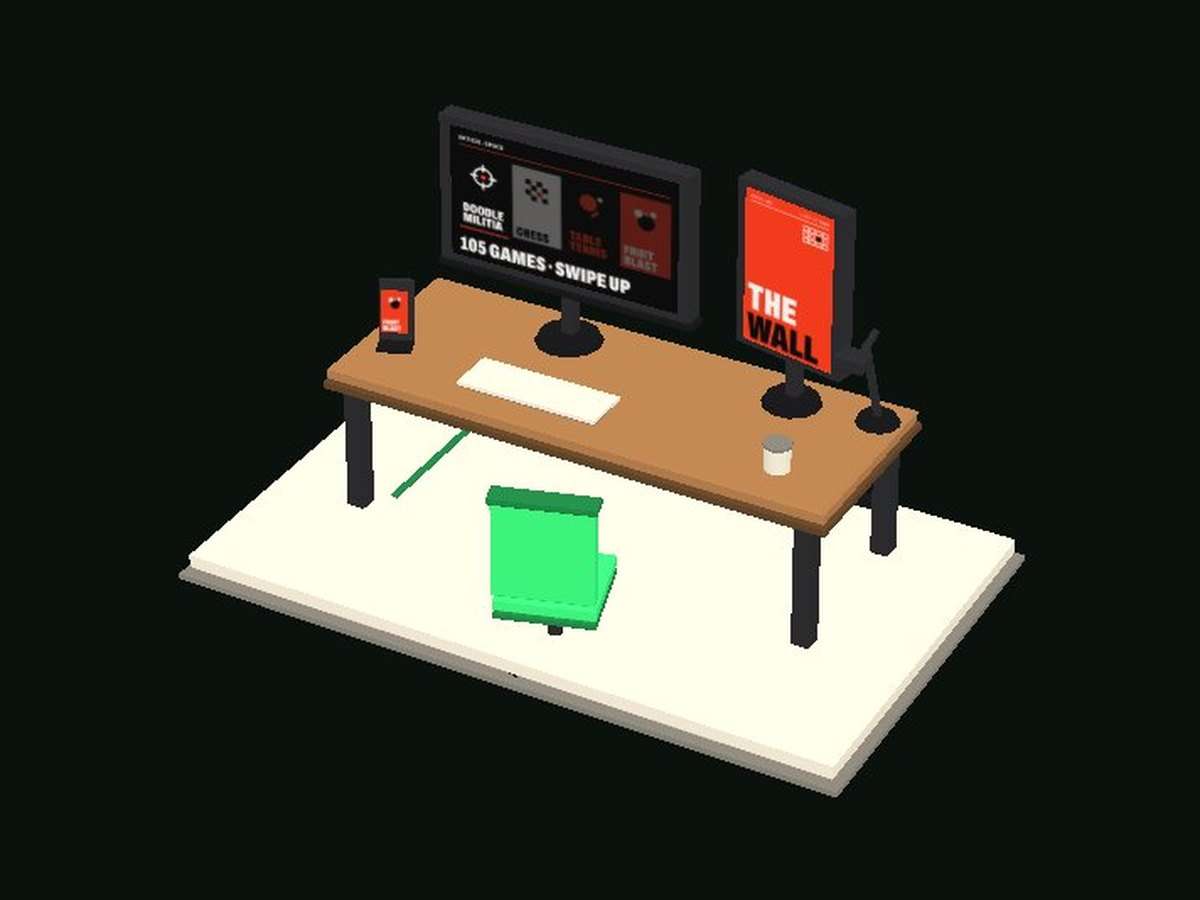
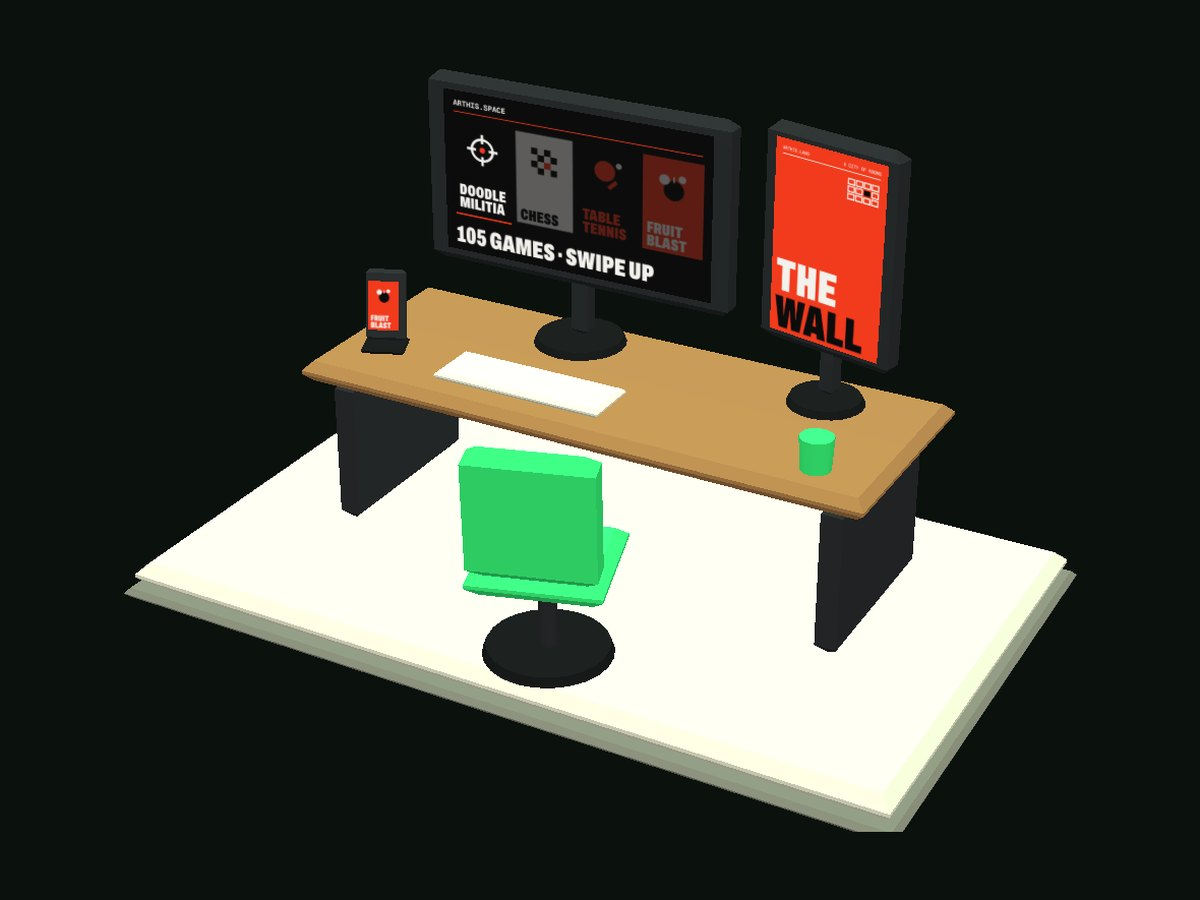
All sets in the clean rounded style; a diorama view on phones
- ARTHIS: one rounded desk on panel legs, rounded monitors, a soft green
  chair on a pedestal; desk lamp and floor cable removed
- Blender: smooth turntable, a soft mannequin with ball joints and visor,
  rounded softbox, the shared tripod camera
- HexaBed, Inference, Board and Trophies: rounder plinths, racks, frame
  and bars; floor cables, stool and crate removed; wall word TROPHIES
- Phones: the camera stands high in each room and steps back just far
  enough for the whole set to fit, with a wider lens; wall words and
  pendant lamps are hidden there so the set reads clearly
- Product shots re-rendered

Claude-Session: https://claude.ai/code/session_01DM9MDgNKx7H6ECd662b5ve

Changed region(s): [[0.0925, 0.0622, 0.8942, 0.9333]]

diff --git a/app.js b/app.js
@@ -546,6 +546,7 @@ function faceMat(s, w, h){
 
 const anim = [];
 let ceilMats = [], keyLight = null;
+const PENDANTS = [];
 
 /* a wall along one axis, with door gaps; each face takes its own room's colour */
 function wall(axis, at, a0, a1, gaps){
@@ -613,10 +614,10 @@ function buildShell(){
   const shadeM = mat(C.black, { transparent: true }), bulbM = flat(0xFFF7E8, { transparent: true });
   ceilMats.push(shadeM, bulbM);
   [{ cx: 0, cz: -HALL_D / 2 }].concat(ROOMS).forEach(rm => {
-    const cord = new THREE.Mesh(boxGeo(.02, 1.4, .02), shadeM); cord.position.set(rm.cx, RH - .7, rm.cz); world.add(cord);
+    const cord = new THREE.Mesh(boxGeo(.02, 1.4, .02), shadeM); cord.position.set(rm.cx, RH - .7, rm.cz); world.add(cord); PENDANTS.push(cord);
     const sh = new THREE.Mesh(new THREE.LatheGeometry([[0, .32], [.34, .3], [.42, 0], [.4, 0]].map(p => new THREE.Vector2(p[0], p[1])), 32), shadeM);
-    sh.position.set(rm.cx, RH - 1.72, rm.cz); world.add(sh);
-    const b = new THREE.Mesh(new THREE.SphereGeometry(.1, 16, 10), bulbM); b.position.set(rm.cx, RH - 1.72, rm.cz); world.add(b);
+    sh.position.set(rm.cx, RH - 1.72, rm.cz); world.add(sh); PENDANTS.push(sh);
+    const b = new THREE.Mesh(new THREE.SphereGeometry(.1, 16, 10), bulbM); b.position.set(rm.cx, RH - 1.72, rm.cz); world.add(b); PENDANTS.push(b);
   });
 
   /* the hall: the name of the building on its back wall */
@@ -662,14 +663,14 @@ const O8 = (par, rt, rb, h, m, x, y, z, o) => CYL(par, rt, rb, h, (o && o.seg) |
 /* every piece stands on its own base: a slab with a darker rim, like a diorama island */
 function base(g, w, d, fam, round){
   fam = fam || 'cream';
-  if (round){ O8(g, w + .06, w + .1, .06, fm(fam, 't'), 0, 0, 0, { seg: 10 }); O8(g, w, w, .14, fm(fam), 0, .06, 0, { seg: 10 }); }
-  else { K(g, w + .1, .06, d + .1, fm(fam, 't'), 0, 0, 0); K(g, w, .14, d, fm(fam), 0, .06, 0); }
+  if (round){ O8(g, w + .06, w + .1, .06, fm(fam, 't'), 0, 0, 0, { seg: 32 }); O8(g, w, w, .14, fm(fam), 0, .06, 0, { seg: 32 }); }
+  else { K(g, w + .1, .06, d + .1, fm(fam, 't'), 0, 0, 0, { r: .03 }); K(g, w, .14, d, fm(fam), 0, .06, 0, { r: .06 }); }
   return .2;
 }
 
 /* the room's name, painted across its far wall and cropped by it */
 const WORDS = [];
-const WALLWORD = ['ARTHIS', 'BLENDER', 'AKVERSE', 'HEXABED', 'INFERENCE', 'THE BOARD', '154', 'ARCADE', 'LET’S BUILD'];
+const WALLWORD = ['ARTHIS', 'BLENDER', 'AKVERSE', 'HEXABED', 'INFERENCE', 'THE BOARD', 'TROPHIES', 'ARCADE', 'LET’S BUILD'];
 function wallType(i){
   const rm = ROOMS[i], word = WALLWORD[i];
   const inner = i === 8 ? 13.5 : rm.w - WT - .04;
@@ -710,40 +711,32 @@ function drawFeed(){
   g.fillStyle = HEX.paper; posterFont(g, 60); g.fillText('105 GAMES · SWIPE UP', 24, 376);
   if (!feedTex) feedTex = texFrom(c); else { feedTex.image = c; feedTex.needsUpdate = true; }
 }
-function chair(par, x, z, ry, acc){
-  acc = acc || 'red';
-  const ch = new THREE.Group(); ch.position.set(x, 0, z); ch.rotation.y = ry || 0; par.add(ch);
-  K(ch, .62, .1, .6, fm(acc), 0, .5, 0); K(ch, .62, .05, .6, fm(acc, 't'), 0, .45, 0);
-  K(ch, .62, .66, .1, fm(acc), 0, .62, -.27); K(ch, .66, .06, .14, fm(acc, 't'), 0, 1.26, -.27);
-  O8(ch, .045, .045, .4, fm('ink'), 0, .05, 0);
-  for (let k = 0; k < 5; k++){ const a = k * Math.PI * 2 / 5; K(ch, .08, .06, .36, fm('ink', 't'), Math.sin(a) * .17, .02, Math.cos(a) * .17, { ry: a }); }
-}
 function buildArthis(i){
   const g = stand(i, 1.9), b = base(g, 4.4, 2.6);
-  K(g, 3.4, .1, 1.3, fm('wood'), 0, b + .92, -.2); K(g, 3.44, .07, 1.34, fm('wood', 't'), 0, b + .86, -.2);
-  [[-1.55, -.75], [1.55, -.75], [-1.55, .35], [1.55, .35]].forEach(p => K(g, .12, .86, .12, fm('ink'), p[0], b, p[1]));
-  K(g, 3.1, .08, .08, fm('ink', 't'), 0, b + .3, -.75);
+  /* one rounded desk on two panel legs */
+  K(g, 3.3, .12, 1.25, fm('wood'), 0, b + .86, -.2, { r: .05 });
+  [-1.45, 1.45].forEach(x => K(g, .12, .86, 1.05, fm('ink'), x, b, -.2, { r: .05 }));
+  K(g, 2.78, .36, .05, fm('ink', 't'), 0, b + .42, -.66, { r: .02 });
   drawFeed();
-  const top = b + 1.02;
-  const m1 = new THREE.Group(); m1.position.set(-.55, top, -.55); g.add(m1);
-  O8(m1, .2, .22, .04, fm('ink', 't'), 0, 0, 0); K(m1, .08, .36, .08, fm('ink'), 0, .04, -.02);
-  K(m1, 1.76, 1.06, .12, fm('ink'), 0, .36, 0); K(m1, 1.8, .06, .14, fm('ink', 't'), 0, .33, 0);
-  plane(m1, 1.6, .9, decal(feedTex), 0, .89, .065);
-  const m2 = new THREE.Group(); m2.position.set(1.0, top, -.55); m2.rotation.y = -.2; g.add(m2);
-  O8(m2, .17, .19, .04, fm('ink', 't'), 0, 0, 0); K(m2, .08, .3, .08, fm('ink'), 0, .04, -.02);
-  K(m2, .78, 1.16, .12, fm('ink'), 0, .3, 0);
-  plane(m2, .66, 1.04, decal(texFrom(posterCanvas('wall', 300))), 0, .88, .065);
-  K(g, .96, .04, .32, fm('cream'), -.4, top, .1); K(g, .96, .02, .32, fm('cream', 't'), -.4, top - .01, .1);
-  O8(g, .085, .08, .16, fm('cream'), 1.25, top, .15); O8(g, .09, .09, .02, fm('cream', 't'), 1.25, top + .16, .15);
-  const ph = new THREE.Group(); ph.position.set(-1.45, top, .05); ph.rotation.y = .4; g.add(ph);
-  K(ph, .22, .03, .16, fm('ink', 't'), 0, 0, 0); K(ph, .22, .4, .04, fm('ink'), 0, .03, -.04, { rx: -.2 });
+  const top = b + .98;
+  const m1 = new THREE.Group(); m1.position.set(-.45, top, -.55); g.add(m1);
+  O8(m1, .24, .26, .04, fm('ink', 't'), 0, 0, 0, { seg: 24 }); K(m1, .1, .4, .08, fm('ink'), 0, .04, -.03, { r: .03 });
+  K(m1, 1.84, 1.1, .1, fm('ink'), 0, .34, 0, { r: .06 });
+  plane(m1, 1.64, .93, decal(feedTex), 0, .89, .055);
+  const m2 = new THREE.Group(); m2.position.set(1.05, top, -.5); m2.rotation.y = -.22; g.add(m2);
+  O8(m2, .19, .21, .04, fm('ink', 't'), 0, 0, 0, { seg: 24 }); K(m2, .08, .3, .08, fm('ink'), 0, .04, -.03, { r: .03 });
+  K(m2, .8, 1.2, .1, fm('ink'), 0, .28, 0, { r: .06 });
+  plane(m2, .68, 1.06, decal(texFrom(posterCanvas('wall', 300))), 0, .88, .055);
+  K(g, 1.0, .05, .32, fm('cream'), -.4, top, .1, { r: .02 });
+  O8(g, .09, .08, .18, fm('green'), 1.3, top, .2, { seg: 16 });
+  const ph = new THREE.Group(); ph.position.set(-1.35, top, .05); ph.rotation.y = .4; g.add(ph);
+  K(ph, .24, .03, .18, fm('ink', 't'), 0, 0, 0, { r: .012 }); K(ph, .22, .4, .04, fm('ink'), 0, .03, -.04, { rx: -.2, r: .02 });
   plane(ph, .17, .275, decal(texFrom(gameTex('fruit'))), 0, .25, -.01).rotation.x = -.2;
-  chair(g, .2, .95, Math.PI + .3, 'green');
-  /* a desk lamp in the street-lamp language, and a cable run to the floor */
-  const dl = new THREE.Group(); dl.position.set(1.55, b + 1.02, -.6); g.add(dl);
-  O8(dl, .12, .14, .04, fm('ink', 't'), 0, 0, 0); K(dl, .04, .5, .04, fm('ink'), 0, .04, 0, { rz: .2 }); K(dl, .04, .04, .32, fm('ink'), -.05, .52, .1, { rx: .4 });
-  K(dl, .2, .12, .14, fm('ink'), -.05, .5, .28); plane(dl, .16, .1, flat(0xEFFFF4), -.05, .5, .35).rotation.x = Math.PI / 2;
-  K(g, .05, .05, 1.2, fm('green', 't'), -1.4, b, -.4, { r: .02 });
+  /* a soft green chair on one pedestal */
+  const ch = new THREE.Group(); ch.position.set(.2, b, .95); ch.rotation.y = Math.PI + .3; g.add(ch);
+  O8(ch, .32, .34, .05, fm('ink', 't'), 0, 0, 0, { seg: 24 }); O8(ch, .05, .05, .42, fm('ink'), 0, .05, 0, { seg: 12 });
+  K(ch, .7, .14, .66, fm('green'), 0, .46, 0, { r: .06 });
+  K(ch, .66, .74, .14, fm('green'), 0, .58, -.28, { r: .07, rx: -.08 });
   wallType(i);
   anim.push(t => { const k = Math.floor(t / 2.4); if (k !== feedIdx){ feedIdx = k; drawFeed(); } });
   return g;
@@ -752,28 +745,27 @@ function buildArthis(i){
 /* ── 1 · Blender: a chunky mannequin turning on a turntable ── */
 function buildBlender(i){
   const g = stand(i, 3.4), b = base(g, 1.75, 0, 'cream', true);
-  O8(g, 1.1, 1.18, .5, fm('ink'), 0, b, 0, { seg: 10 }); O8(g, 1.2, 1.2, .06, fm('ink', 't'), 0, b + .5, 0, { seg: 10 });
-  const plate = O8(g, 1.04, 1.04, .06, fm('red'), 0, b + .56, 0, { seg: 10 });
+  O8(g, 1.12, 1.18, .5, fm('ink'), 0, b, 0, { seg: 32 }); O8(g, 1.2, 1.2, .06, fm('ink', 't'), 0, b + .5, 0, { seg: 32 });
+  const plate = O8(g, 1.04, 1.04, .06, fm('red'), 0, b + .56, 0, { seg: 32 });
+  /* a soft mannequin: rounded blocks, ball joints, a visor */
   const fig = new THREE.Group(); fig.position.y = b + .62; g.add(fig);
   const W = fm('cream'), T = fm('cream', 't');
-  const limb = (x0, y0, x1, y1, r, z) => { const A = V3(x0, y0, z || 0), Bv = V3(x1, y1, z || 0), len = A.distanceTo(Bv);
-    const m = new THREE.Mesh(new THREE.CylinderGeometry(r, r * 1.1, len, 8), W); m.position.copy(A).add(Bv).multiplyScalar(.5);
-    m.quaternion.setFromUnitVectors(V3(0, 1, 0), Bv.clone().sub(A).normalize()); m.castShadow = true; fig.add(m);
-    const j = new THREE.Mesh(new THREE.CylinderGeometry(r * 1.3, r * 1.3, r * 1.2, 8), T); j.position.copy(Bv); j.quaternion.copy(m.quaternion); fig.add(j); };
-  K(fig, .5, .62, .3, W, 0, 1.0, 0); K(fig, .54, .08, .34, T, 0, 1.6, 0); K(fig, .44, .16, .28, T, 0, .92, 0);
-  K(fig, .4, .44, .38, W, 0, 1.7, 0, { r: .12 }); K(fig, .32, .11, .06, fm('ink'), 0, 1.88, .17, { r: .03 }); O8(fig, .04, .04, .05, fm('red'), .2, 2.04, 0); O8(fig, .07, .08, .1, T, 0, 1.64, 0);
-  limb(-.3, 1.52, -.55, 1.2, .07); limb(-.55, 1.2, -.45, .92, .06); limb(.3, 1.52, .58, 1.34, .07); limb(.58, 1.34, .74, 1.6, .06);
-  limb(-.13, .92, -.18, .48, .09); limb(-.18, .48, -.2, .04, .08); limb(.13, .92, .2, .5, .09); limb(.2, .5, .22, .04, .08);
-  /* a softbox and a camera on a tripod, both on the same base */
+  const ball = (p, r) => mesh(fig, new THREE.SphereGeometry(r, 12, 8), T, p.x, p.y, p.z);
+  const limb = (x0, y0, x1, y1, r) => { const A = V3(x0, y0, 0), Bv = V3(x1, y1, 0), len = A.distanceTo(Bv);
+    const m = new THREE.Mesh(new THREE.CylinderGeometry(r, r, len, 12), W); m.position.copy(A).add(Bv).multiplyScalar(.5);
+    m.quaternion.setFromUnitVectors(V3(0, 1, 0), Bv.clone().sub(A).normalize()); m.castShadow = true; fig.add(m); ball(Bv, r * 1.25); };
+  K(fig, .52, .64, .32, W, 0, .98, 0, { r: .12 }); K(fig, .42, .18, .28, T, 0, .86, 0, { r: .07 });
+  K(fig, .4, .42, .38, W, 0, 1.68, 0, { r: .14 }); K(fig, .32, .1, .06, fm('ink'), 0, 1.86, .17, { r: .03 });
+  O8(fig, .07, .08, .1, T, 0, 1.6, 0);
+  ball(V3(-.3, 1.52, 0), .09); ball(V3(.3, 1.52, 0), .09);
+  limb(-.3, 1.52, -.52, 1.22, .07); limb(-.52, 1.22, -.44, .94, .06); limb(.3, 1.52, .56, 1.34, .07); limb(.56, 1.34, .7, 1.6, .06);
+  limb(-.13, .9, -.17, .48, .085); limb(-.17, .48, -.19, .06, .075); limb(.13, .9, .19, .5, .085); limb(.19, .5, .21, .06, .075);
+  /* a rounded softbox and the camera on its tripod */
   const sb = new THREE.Group(); sb.position.set(-2.2, 0, .6); sb.rotation.y = .9; g.add(sb);
-  O8(sb, .18, .22, .05, fm('ink', 't'), 0, 0, 0); O8(sb, .035, .035, 2.2, fm('ink'), 0, .05, 0);
-  K(sb, 1.2, .9, .34, fm('ink'), 0, 1.95, 0); K(sb, 1.26, .07, .38, fm('ink', 't'), 0, 2.82, 0);
-  plane(sb, 1.06, .76, flat(0xFFF4DE), 0, 2.4, .175);
-  const cam = new THREE.Group(); cam.position.set(2.0, 0, 1.4); cam.rotation.y = -2.4 + Math.PI; g.add(cam);
-  [0, 2.1, 4.2].forEach(r => K(cam, .05, 1.42, .05, fm('ink'), Math.sin(r) * .3, 0, Math.cos(r) * .3, { rx: Math.cos(r) * -.2, rz: Math.sin(r) * .2 }));
-  K(cam, .62, .4, .38, fm('ink'), 0, 1.38, 0); K(cam, .66, .06, .42, fm('ink', 't'), 0, 1.36, 0);
-  const lens = O8(cam, .15, .17, .3, fm('ink', 't'), 0, 1.58, .32); lens.rotation.x = Math.PI / 2;
-  const rec = new THREE.Mesh(new THREE.CylinderGeometry(.04, .04, .02, 8), flat(C.red)); rec.position.set(.22, 1.79, 0); cam.add(rec);
+  O8(sb, .22, .24, .04, fm('ink', 't'), 0, 0, 0, { seg: 24 }); O8(sb, .035, .035, 2.0, fm('ink'), 0, .04, 0);
+  K(sb, 1.2, .9, .3, fm('ink'), 0, 1.95, 0, { r: .1 });
+  plane(sb, 1.0, .7, flat(0xFFF4DE), 0, 2.4, .16);
+  const rec = tripodCam(g, 2.0, 1.4, .75, 1.15);
   /* the timeline as an orbit: keyframe diamonds circling the turntable */
   const keys = new THREE.Group(); keys.position.y = b + 1.6; g.add(keys);
   for (let k = 0; k < 10; k++){
@@ -854,7 +846,7 @@ function buildAkverse(i){
 let hexRegen = null;
 function buildHexa(i){
   const g = stand(i, 3.4), b = base(g, 1.95, 0, 'cream', true);
-  O8(g, .5, .6, .7, fm('ink'), 0, b, 0, { seg: 10 }); O8(g, 1.7, 1.7, .08, fm('ink', 't'), 0, b + .7, 0, { seg: 10 });
+  O8(g, .5, .6, .7, fm('ink'), 0, b, 0, { seg: 32 }); O8(g, 1.7, 1.7, .08, fm('ink', 't'), 0, b + .7, 0, { seg: 48 });
   /* the projector: a glowing green ring on the table, the island floating above it */
   const ringM = new THREE.MeshBasicMaterial({ color: lin(FAM.green), transparent: true, opacity: .9 });
   const ring = new THREE.Mesh(new THREE.TorusGeometry(1.45, .025, 8, 72), ringM); ring.rotation.x = Math.PI / 2; ring.position.y = b + .8; g.add(ring);
@@ -909,11 +901,11 @@ function buildHexa(i){
 
 /* ── 4 · Inference: racks on a plinth, a network thinking above ── */
 function buildAI(i){
-  const g = stand(i, 1.1), b = base(g, 3.8, 1.4);
+  const g = stand(i, 1.1), b = base(g, 3.8, 1.4, 'ink');
   const ON = [flat(0xC9F5D6), flat(FAM.green)], OFF = fm('ink', 't');
   const leds = [];
   [-1.1, 0, 1.1].forEach(x => {
-    K(g, .96, 2.4, .86, fm('ink'), x, b, 0); K(g, 1.0, .08, .9, fm('ink', 't'), x, b + 2.4, 0); K(g, 1.0, .1, .9, fm('ink', 't'), x, b, 0);
+    K(g, .96, 2.44, .86, fm('ink'), x, b, 0, { r: .08 }); K(g, .8, .06, .02, flat(FAM.green), x, b + 2.3, .435, { noShadow: true, r: .01 });
     for (let r = 0; r < 10; r++){
       K(g, .78, .04, .02, fm('ink', 't'), x, b + .26 + r * .21, .44, { r: .005 });
       for (let c = 0; c < 3; c++){ const m = new THREE.Mesh(boxGeo(.05, .05, .02), OFF); m.position.set(x - .28 + c * .08, b + .36 + r * .21, .445); g.add(m); leds.push(m); }
@@ -930,7 +922,6 @@ function buildAI(i){
   net.add(new THREE.LineSegments(new THREE.BufferGeometry().setFromPoints(pts), new THREE.LineBasicMaterial({ color: lin(0x6E6B66) })));
   const pulses = edges.map(() => { const m = new THREE.Mesh(new THREE.SphereGeometry(.03, 6, 4), flat(FAM.green)); net.add(m); return m; });
   /* cable runs from the racks across the floor */
-  [-1.1, 0, 1.1].forEach((x, k) => K(g, .07, .04, 1.4 + k * .3, fm('green', 't'), x + .3, b, 1.1 + k * .15, { r: .015 }));
   wallType(i);
   let last = 0;
   anim.push(t => {
@@ -954,7 +945,7 @@ function cardCanvas(title, sub, dark){
 }
 function buildBoard(i){
   const w = frameOf(i);
-  K(w, 6.4, 3.4, .1, fm('wood', 't'), -.4, .9, .05); K(w, 6.1, 3.1, .06, fm('cream'), -.4, 1.05, .12);
+  K(w, 6.5, 3.5, .12, fm('ink'), -.4, .85, .06, { r: .12 }); K(w, 6.16, 3.16, .06, fm('cream'), -.4, 1.02, .14, { r: .08 });
   const items = [
     { tex: texFrom(posterCanvas('cv', 300)), w: .8, h: .8 * PHI, x: -2.9, y: 3.2 },
     { tex: texFrom(posterCanvas('tools', 300)), w: .8, h: .8 * PHI, x: -1.95, y: 3.25 },
@@ -975,14 +966,9 @@ function buildBoard(i){
   const order = [0, 5, 6, 1, 2, 7, 3, 8, 4, 0];
   const sp = []; for (let k = 0; k < order.length - 1; k++) sp.push(pins[order[k]], pins[order[k + 1]]);
   w.add(new THREE.LineSegments(new THREE.BufferGeometry().setFromPoints(sp), new THREE.LineBasicMaterial({ color: lin(C.red) })));
-  const g = stand(i, 1.8), b = base(g, 3.0, 1.4);
-  const st = new THREE.Group(); st.position.set(-.8, b, 0); g.add(st);
-  O8(st, .3, .3, .07, fm('wood'), 0, .62, 0); O8(st, .31, .31, .03, fm('wood', 't'), 0, .6, 0);
-  [0, 2.1, 4.2].forEach(r => K(st, .06, .62, .06, fm('wood', 't'), Math.sin(r) * .2, 0, Math.cos(r) * .2, { rx: Math.cos(r) * -.08, rz: Math.sin(r) * .08 }));
-  K(g, .9, .5, .6, fm('wood'), .7, b, 0); K(g, .94, .06, .64, fm('wood', 't'), .7, b + .5, 0);
-  [[.5, .1], [.75, -.05], [.95, .12]].forEach((q, k) => K(g, .3, .02, .22, fm(k === 1 ? 'red' : 'cream'), q[0], b + .56 + k * .02, q[1], { ry: k * .3, r: .004 }));
+  w.userData.dist = 1.2; w.userData.wall = true;
   wallType(i);
-  return g;
+  return w;
 }
 
 /* ── 6 · 154: the numbers as a chunky bar chart ── */
@@ -998,12 +984,12 @@ function buildNumbers(i){
   const BARS = [['154', 'Builds', 154, 'red'], ['43', 'Three.js', 43, 'ink'], ['28', 'Add-ons', 28, 'conc'], ['15', 'P2P games', 15, 'cream']];
   BARS.forEach((bar, k) => {
     const x = -1.65 + k * 1.1, h = .5 + Math.sqrt(bar[2] / 154) * 2.6;
-    K(g, .8, h, .8, fm(bar[3]), x, b, 0); K(g, .86, .08, .86, fm(bar[3], 't'), x, b + h, 0);
+    K(g, .8, h, .8, fm(bar[3]), x, b, 0, { r: .1 });
     plane(g, .7, .467, decal(plaqueCanvas(bar[0], bar[1], bar[3] === 'ink' || bar[3] === 'red')), x, b + .42, .41);
   });
   const extra = [['AIR 8956', 'JEE Adv.'], ['98.9', 'JEE Main %ile']];
   extra.forEach((e, k) => { const p = new THREE.Group(); p.position.set(2.0, b, .2 - k * .5); p.rotation.y = -.4; g.add(p);
-    K(p, .5, .5 + k * .2, .4, fm('cream'), 0, 0, 0); plane(p, .46, .3, decal(plaqueCanvas(e[0], e[1], false)), 0, .3 + k * .1, .21); });
+    K(p, .5, .5 + k * .2, .4, fm('cream'), 0, 0, 0, { r: .06 }); plane(p, .46, .3, decal(plaqueCanvas(e[0], e[1], false)), 0, .3 + k * .1, .21); });
   wallType(i);
   return g;
 }
@@ -1069,7 +1055,7 @@ function letterTex(){
   return texFrom(c);
 }
 function buildContact(i){
-  const f = frameOf(i), W = 4.8, Hh = 3.0, y0 = .7; f.userData.dist = 2.2;
+  const f = frameOf(i), W = 4.8, Hh = 3.0, y0 = .7; f.userData.dist = 2.2; f.userData.wall = true;
   /* the flap lies open against the wall, the body is a soft slab, the letter rises out between them */
   const tri = (pts, d) => { const s = new THREE.Shape(); s.moveTo(pts[0][0], pts[0][1]); pts.slice(1).forEach(p => s.lineTo(p[0], p[1])); s.lineTo(pts[0][0], pts[0][1]);
     const g = new THREE.ExtrudeGeometry(s, { depth: d, bevelEnabled: true, bevelThickness: .012, bevelSize: .012, bevelSegments: 2 }); g.computeVertexNormals(); return g; };
@@ -1540,9 +1526,21 @@ function stationPose(i){
 let POSES = [], LEGS = [];
 function buildPoses(){
   const narrow = VW < 760;
+  /* on a phone the camera looks down from high up, where the pendants would hang in front of the set */
+  PENDANTS.forEach(m => { m.visible = !narrow; });
   POSES = [HALLP].concat(STATIONS.map((s, i) => {
     const p = stationPose(i);
-    if (narrow){ p.pos.addScaledVector(ROOMS[i].nin, -1.2); p.pos.y += .6; p.u = 0; p.v = .24; }
+    /* on a phone the room is seen as a diorama: high in the doorway, looking down on the whole set */
+    if (narrow){
+      const rm = ROOMS[i], c = rm.f.clone().addScaledVector(rm.n, PIECE[i].userData.dist);
+      /* stand back just far enough for the set's width to fill the frame, never past the door */
+      const sz = new THREE.Box3().setFromObject(PIECE[i]).getSize(V3(0, 0, 0)), wide = Math.abs(rm.n.x) > .5 ? sz.z : sz.x;
+      const tHh = Math.tan(66 * Math.PI / 360) * VW / VH, room = Math.abs((rm.door.x - c.x) * rm.n.x + (rm.door.z - c.z) * rm.n.z) - .3;
+      const d = clamp(wide * .56 / tHh, 5.2, room);
+      p.pos = c.clone().addScaledVector(rm.n, d); p.pos.y = 1.4 + d * .42;
+      p.look = V3(c.x, PIECE[i].userData.wall ? 2.3 : 1.1, c.z);
+      p.u = 0; p.v = .08;
+    }
     return p;
   }));
   /* every walk goes through a door: a curve from pose to pose that passes the door's middle */
@@ -1557,7 +1555,7 @@ const tmpPos = V3(0, 0, 0), tmpLook = V3(0, 0, 0), tan = V3(0, 0, 0), _t = V3(0,
 function applyPose(pos, look, u, v){
   camera.position.copy(pos);
   camera.lookAt(look);
-  const tH = Math.tan(FOV * Math.PI / 360);
+  const tH = Math.tan(camera.fov * Math.PI / 360);
   if (u) camera.rotateY(Math.atan(u * tH * camera.aspect));
   if (v) camera.rotateX(-Math.atan(v * tH));
 }
@@ -1688,12 +1686,16 @@ function direct(p, t){
     /* each room's word rises into place as you come through its door */
     WORDS.forEach((w, j) => {
       if (!w) return;
+      if (w.pl.visible === STACK) w.pl.visible = !STACK;
       const ar = REDUCED ? 1 : ease(clamp(1.35 - Math.abs(kk - (j + 1)) * 1.6, 0, 1));
       if (Math.abs(ar - w.a) < .002) return; w.a = ar;
       w.pl.position.y = w.y - (1 - ar) * 1.4; w.pl.material.opacity = ar;
     });
   }
 
+  /* phones widen the lens once the halves are gone, so a whole set fits the narrow frame */
+  const fovWant = STACK ? lerp(FOV, 66, smooth(HALL_AT + STEP * .6, HALL_AT + STEP, p)) : FOV;
+  if (Math.abs(camera.fov - fovWant) > .01){ camera.fov = fovWant; camera.updateProjectionMatrix(); }
   /* the ceiling fades as the camera rises over the walls */
   const co = 1 - smooth(RH - .8, RH + 4, camera.position.y);
   const inside = camera.position.y < RH - .3; BEAMS.forEach(b => { b.visible = inside; });
